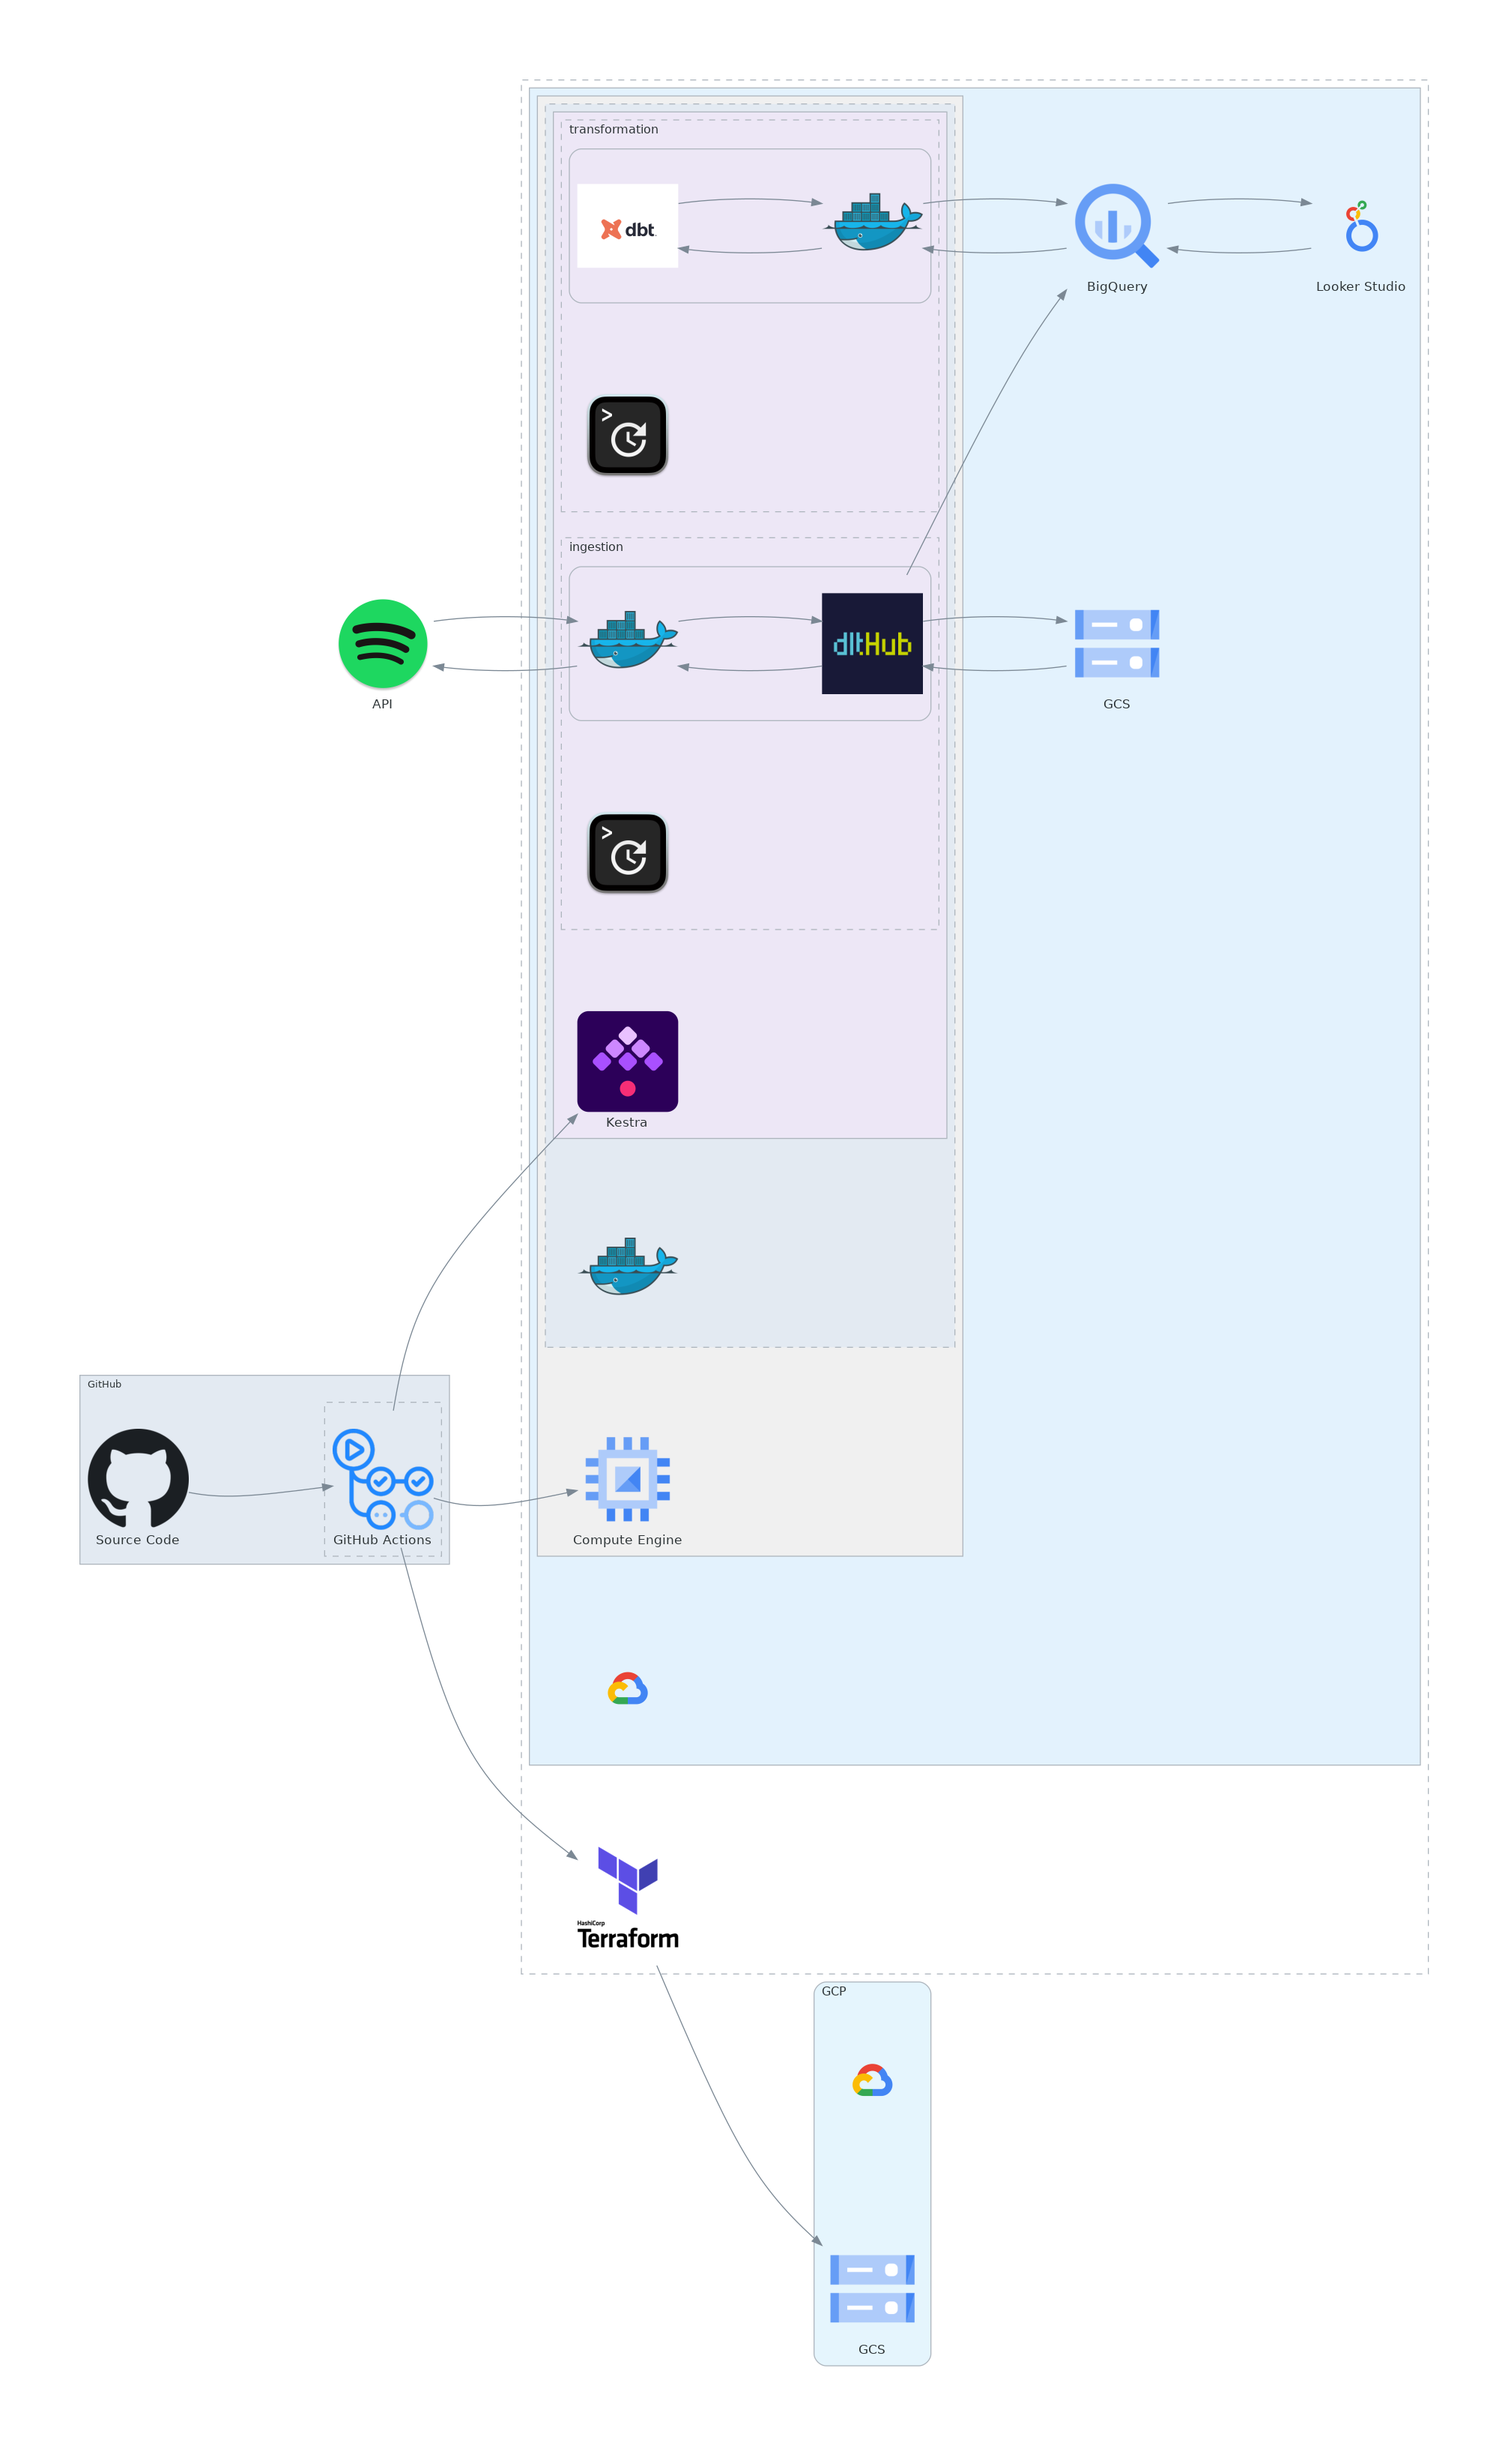
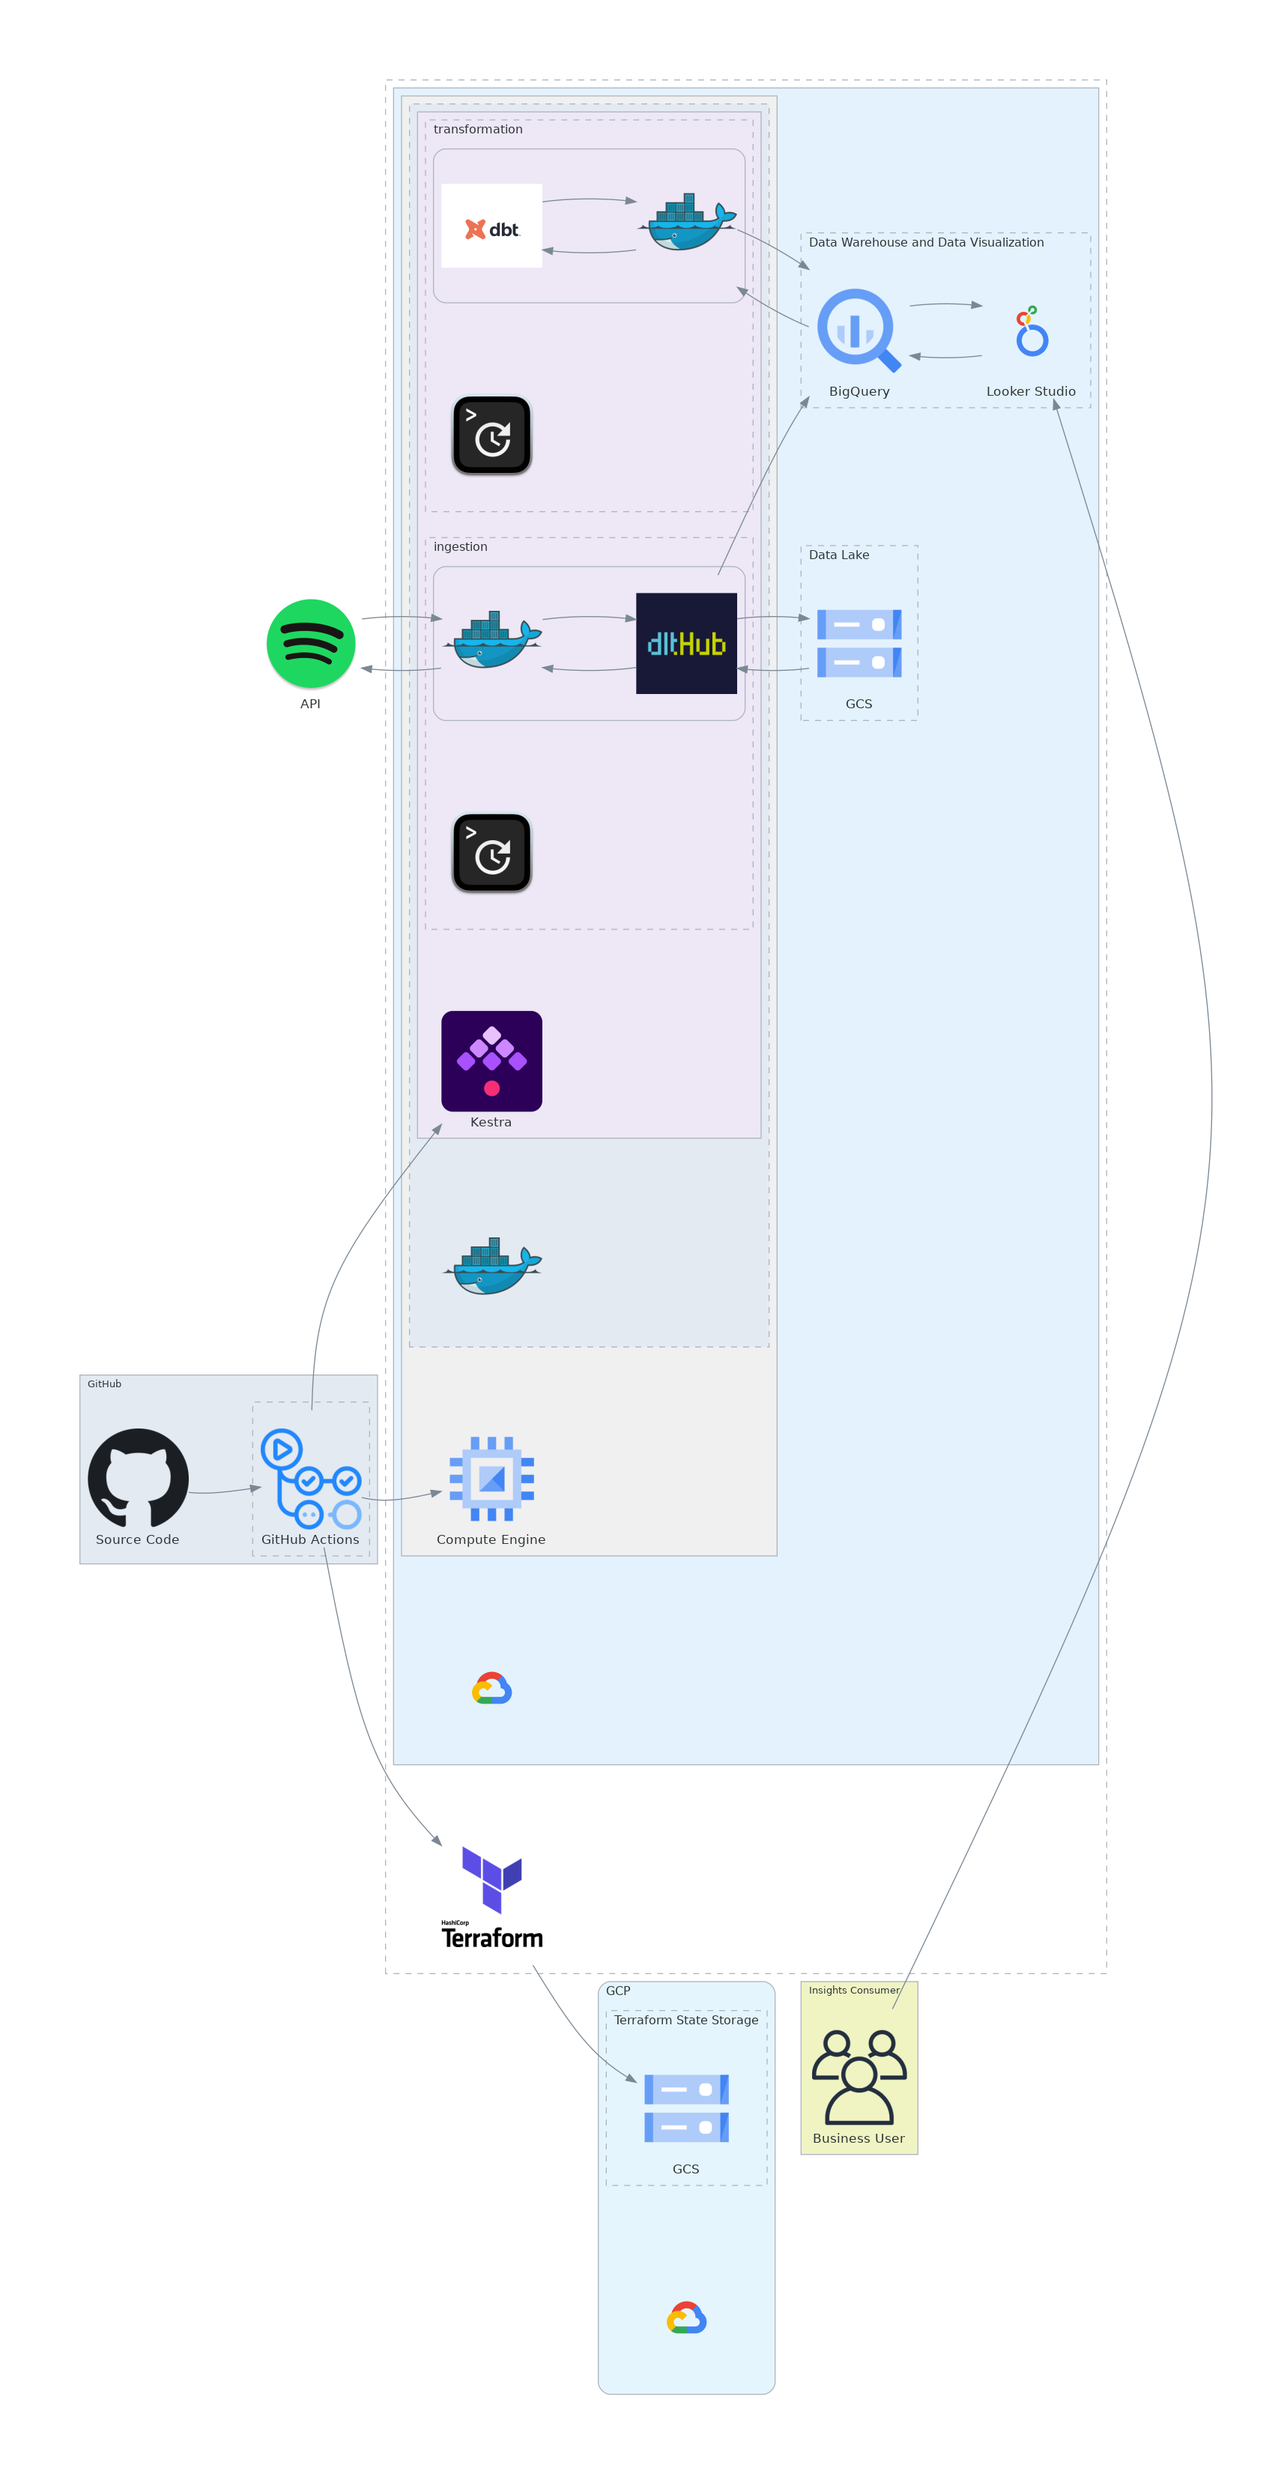
update files proyect

Changed region(s): [[0.0309, 0.031, 0.9586, 0.8048], [0.4638, 0.7738, 0.7421, 0.9905], [0.773, 0.1238, 0.804, 0.1548]]

diff --git a/scripts/architecture_diagram.py b/scripts/architecture_diagram.py
@@ -4,11 +4,12 @@ from diagrams.gcp.analytics import BigQuery  # type: ignore
 from diagrams.gcp.compute import ComputeEngine  # type: ignore
 from diagrams.gcp.storage import GCS  # type: ignore
 from diagrams.onprem.ci import GithubActions  # type: ignore
+from diagrams.onprem.client import Users  # type: ignore
 from diagrams.onprem.container import Docker  # type: ignore
 from diagrams.onprem.iac import Terraform  # type: ignore
 from diagrams.onprem.vcs import Github  # type: ignore
 
-graph_attr = {"splines": "curved", "pad": "1.0", "nodesep": "1.0", "ranksep": "2.0"}
+graph_attr = {"splines": "curved", "pad": "1.0", "nodesep": "1.0", "ranksep": "1.0"}
 
 with Diagram(
     show=False, outformat=["png"], filename="resources/architecture_diagram", direction="LR", graph_attr=graph_attr
@@ -21,9 +22,15 @@ with Diagram(
 
         with Cluster("", graph_attr={"bgcolor": "#e3f2fd", "style": "solid", "fontsize": "10"}):
             Custom("", "gcp.png")
-            bq = BigQuery("BigQuery")
-            gcs = GCS("GCS")
-            looker = Custom("Looker Studio", "looker.png")
+
+            with Cluster(
+                "Data Warehouse and Data Visualization", graph_attr={"bgcolor": "transparent", "style": "dashed"}
+            ):
+                bq = BigQuery("BigQuery")
+                looker = Custom("Looker Studio", "looker.png")
+
+            with Cluster("Data Lake", graph_attr={"bgcolor": "transparent", "style": "dashed"}):
+                gcs = GCS("GCS")
 
             with Cluster("", graph_attr={"bgcolor": "#f0f0f0", "style": "solid", "fontsize": "10"}):
                 compute = ComputeEngine("Compute Engine")
@@ -46,6 +53,9 @@ with Diagram(
                                 docker_2 = Docker("")
                                 dlt = Custom("", "dlt.png")
 
+    with Cluster("Insights Consumer", graph_attr={"bgcolor": "#f0f4c3", "style": "solid", "fontsize": "10"}):
+        user = Users("Business User")
+
     with Cluster("GitHub", graph_attr={"bgcolor": "#e3eaf2", "style": "solid", "fontsize": "10"}):
         github = Github("Source Code")
         with Cluster("", graph_attr={"bgcolor": "transparent", "style": "dashed"}):
@@ -53,7 +63,8 @@ with Diagram(
 
     with Cluster("GCP"):
         Custom("", "gcp.png")
-        gcs_terraform = GCS("GCS")
+        with Cluster("Terraform State Storage", graph_attr={"bgcolor": "transparent", "style": "dashed"}):
+            gcs_terraform = GCS("GCS")
 
     api_spotify >> docker_2
     docker_2 << api_spotify
@@ -71,6 +82,7 @@ with Diagram(
 
     bq >> looker
     looker << bq
+    user >> looker
 
     terraform >> gcs_terraform
 

diff --git a/.github/workflows/README.md b/.github/workflows/README.md
@@ -7,8 +7,8 @@ Este proyecto utiliza **GitHub Actions** para automatizar aspectos clave del cic
 3. Validación y despliegue de flujos de trabajo de Kestra.
 4. Construcción y publicación de una imagen Docker a DockerHub cuando se modifican los archivos del pipeline.
 5. Escaneo automático de secretos sensibles con GitGuardian.
+6. Validación de estilo y calidad de código con Pre-Commit.
 
----
 
 ## Secretos requeridos
 
@@ -34,7 +34,6 @@ Asegúrate de configurar los siguientes secretos en tu repositorio para que los 
 | `DOCKERHUB_TOKEN`               | Token de acceso a Docker Hub                                |
 | `GITGUARDIAN_API_KEY`           | API key para realizar escaneos de seguridad con GitGuardian |
 
----
 
 ## Workflows disponibles
 
@@ -50,7 +49,6 @@ Pasos principales:
 - Espera que la instancia esté saludable.
 - Lanza el flujo `init-prod-kv` para inicializar claves necesarias en el KV Store.
 
----
 
 ### 2. `ci-cd-deploy-instance.yml`: despliegue de la instancia de Kestra en GCP
 
@@ -64,7 +62,6 @@ Pasos principales:
 - Copia los archivos necesarios a la instancia de GCP.
 - Reinicia el entorno de ejecución Docker en GCP para aplicar cambios.
 
----
 
 ### 3. `ci-cd-deploy-flows.yml`: validación y despliegue de flujos Kestra
 
@@ -86,7 +83,6 @@ Consta de tres jobs secuenciales:
 - Espera que la instancia esté saludable.
 - Lanza el flujo `init-prod-kv` para inicializar claves necesarias en el KV Store.
 
----
 
 ### 4. `ci-cd-build-deploy-docker-image.yml`: construir y publicar imagen Docker
 
@@ -102,7 +98,6 @@ Pasos clave:
   - `v<AAAAMMDD>` (con la fecha actual)
 - Publica ambas imágenes a Docker Hub bajo `rj24/spotify-pipeline`.
 
----
 
 ### 5. `ci-sec-secrets-scan.yml`: escaneo de secretos sensibles
 
@@ -113,7 +108,20 @@ Pasos clave:
 - Realiza checkout completo del repositorio (con historial).
 - Ejecuta `ggshield` usando la acción oficial de **GitGuardian**.
 
----
+
+### 6. `ci-qa-pre-commit.yml`: validación de estilo y calidad de código
+Este workflow se ejecuta automáticamente en cada push o pull request a cualquier rama, y se encarga de aplicar validaciones automáticas de estilo y calidad sobre los archivos modificados.
+
+Pasos clave:
+- Realiza el checkout del código fuente.
+- Instala Python y `pre-commit`, junto con dependencias del sistema necesarias (por ejemplo, para gitleaks).
+- Compara los cambios entre el commit base y el commit actual:
+  - En un pull request, compara contra la rama base.
+  - En un push directo, compara con el commit anterior (HEAD^).
+- Ejecuta los hooks configurados en `.pre-commit-config.yaml` (por ejemplo, `isort`, `black`, `gitleaks`, etc.).
+
+Este workflow asegura que cualquier cambio subido al repositorio pase por validaciones automáticas antes de ser fusionado
+
 
 ## Estado de los Workflows CI/CD
 
@@ -124,3 +132,4 @@ Pasos clave:
 | Despliegue de Flujos Kestra        | [![CI-CD-Deploy-Kestra-Flows](https://github.com/jesusoviedo/spotify-dwh-insights/actions/workflows/ci-cd-deploy-flows.yml/badge.svg)](https://github.com/jesusoviedo/spotify-dwh-insights/actions/workflows/ci-cd-deploy-flows.yml) |
 | Docker Build & Deploy              | [![CI-CD-Build-Deploy-Docker](https://github.com/jesusoviedo/spotify-dwh-insights/actions/workflows/ci-cd-build-deploy-docker-image.yml/badge.svg)](https://github.com/jesusoviedo/spotify-dwh-insights/actions/workflows/ci-cd-build-deploy-docker-image.yml) |
 | Escaneo de Secretos         | [![CI-SEC-Secrets-Scan](https://github.com/jesusoviedo/spotify-dwh-insights/actions/workflows/ci-sec-secrets-scan.yml/badge.svg)](https://github.com/jesusoviedo/spotify-dwh-insights/actions/workflows/ci-sec-secrets-scan.yml) |
+| Validación de Código         | [![Code Style & Quality](https://github.com/jesusoviedo/spotify-dwh-insights/actions/workflows/ci-qa-pre-commit.yml/badge.svg)](https://github.com/jesusoviedo/spotify-dwh-insights/actions/workflows/ci-qa-pre-commit.yml) |
